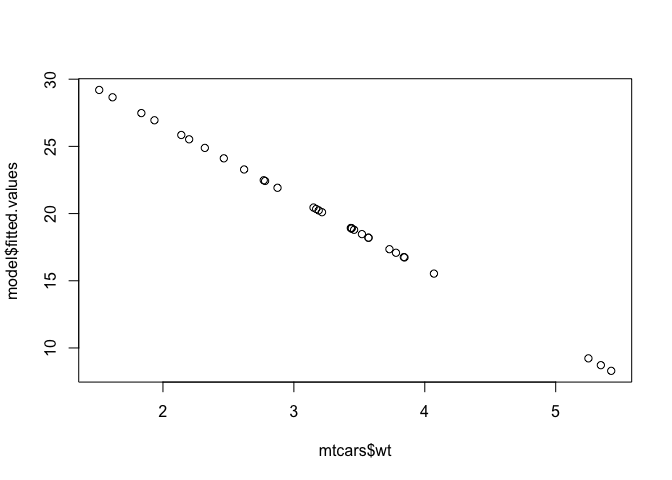
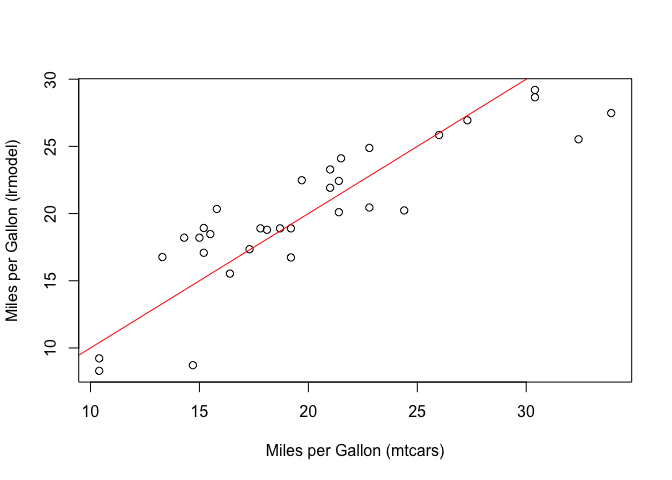
updating examples in README

diff --git a/README.md b/README.md
@@ -11,7 +11,7 @@
 coverage](https://codecov.io/gh/diggsm/bios625_hw4/graph/badge.svg)](https://app.codecov.io/gh/diggsm/bios625_hw4)
 <!-- badges: end -->
 
-The lrmodel package was designed to re-implement the base R function
+The `lrmodel` package was designed to re-implement the base R function
 `lm()` and generate results from a linear regression model.
 
 ## Installation
@@ -27,7 +27,7 @@ pak::pak("diggsm/bios625_hw4")
 ## Usage
 
 Below are example of how to use the `lrmodel` function to fit a simple
-linear regression model and explore the model results.
+linear regression model and explore the results.
 
 ``` r
 library(lrmodel)
@@ -49,4 +49,27 @@ model$rank
 #> [1] 2
 ```
 
+``` r
+# Plotting the fitted values
+plot(
+  x = mtcars$mpg, y = model$fitted.values,
+  xlab = "Miles per Gallon (mtcars)",
+  ylab = "Miles per Gallon (lrmodel)"
+  )
+abline(a = 0, b = 1, col = "red")
+```
+
 <img src="man/figures/README-fitted.vals-1.png" style="width:100.0%" />
+
+``` r
+# Plotting the residuals
+plot(
+  x = mtcars$wt,
+  y = model$residuals,
+  xlab = "Weight (1000 lbs)",
+  ylab = "Residuals"
+)
+abline(a = 0, b = 0, lty = 2)
+```
+
+<img src="man/figures/README-residuals-1.png" style="width:100.0%" />
